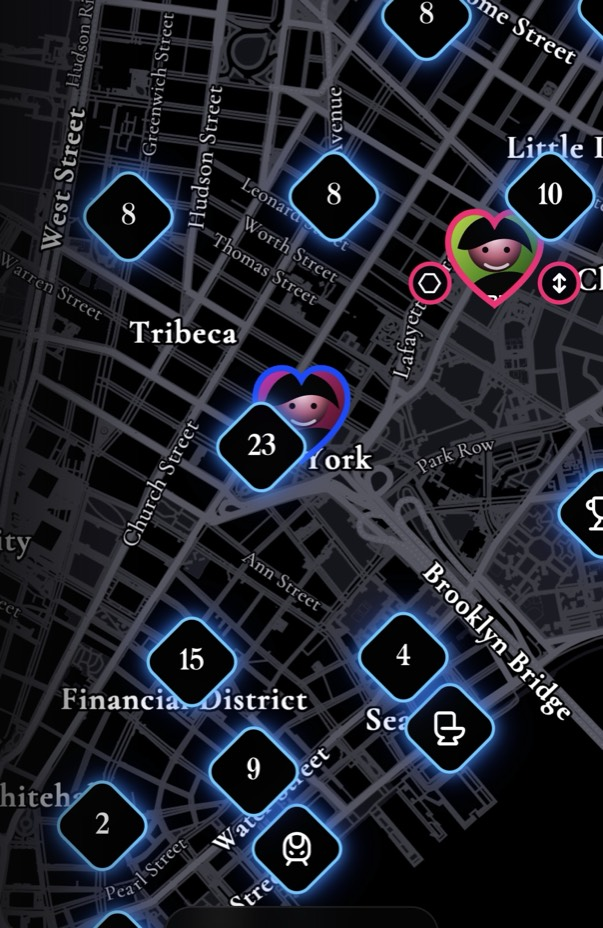
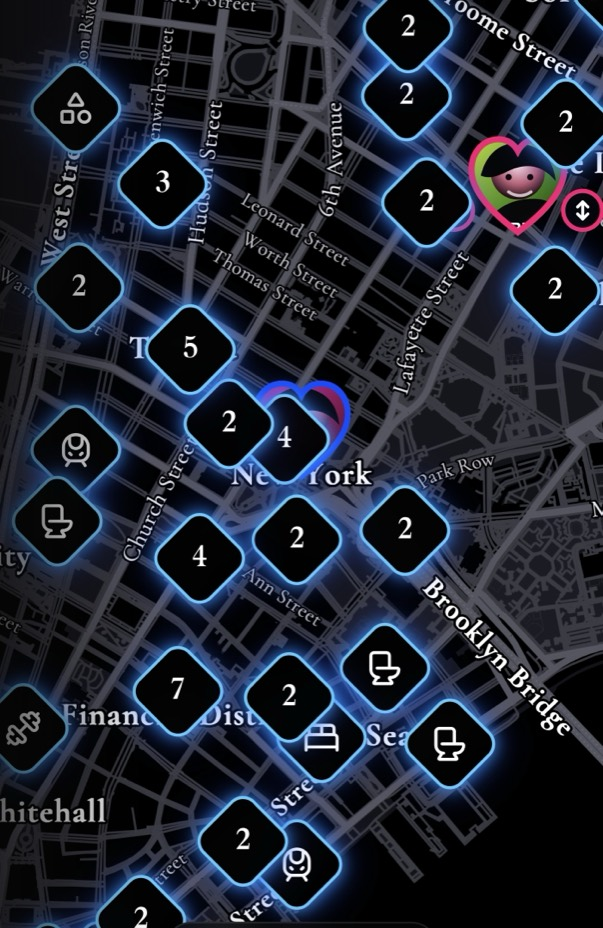
fix: solid hearts in color-blind mode and one font in the accessibility menu
Color-blind mode dashed the stroke on hearts and their side badges. On a
dark map a dashed outline reads as an empty heart rather than a colour
difference, so the strokes are solid again and only their colour carries
the distinction.

The Color vision row rendered in the display serif while every other row
in the menu used the body face, because an accordion header is a heading
element and headings take the serif. A settings row is not a heading to
the eye.

The release email carries fresh captures of the clustered map and the
badge menu from this build.

Claude-Session: https://claude.ai/code/session_01FRN5rnFL84GgDoo835ZMps

diff --git a/src/styles/theme.css b/src/styles/theme.css
@@ -598,13 +598,11 @@ html[data-cruush-color-blind] svg[data-marker-theme='current'][data-pulse-active
 html[data-cruush-color-blind] [data-heart-theme='mutual'] > svg > path:first-of-type,
 html[data-cruush-color-blind] svg[data-marker-theme='mutual'][data-pulse-active='false'][data-traveller-active='false'] > path[data-testid^='marker-ghost-border'] {
   stroke: var(--cruush-cv-secondary) !important;
-  stroke-dasharray: 7 3;
 }
 
 html[data-cruush-color-blind] [data-heart-theme='nearby'] > svg > path:first-of-type,
 html[data-cruush-color-blind] svg[data-marker-theme='nearby'][data-pulse-active='false'][data-traveller-active='false'] > path[data-testid^='marker-ghost-border'] {
   stroke: var(--cruush-cv-primary) !important;
-  stroke-dasharray: 2 3;
 }
 
 html[data-cruush-color-blind] [data-heart-fill-theme='current'] stop:nth-child(1) {
@@ -657,7 +655,6 @@ html[data-cruush-color-blind] [data-badge-tone='mutual'] {
 
 html[data-cruush-color-blind] [data-badge-tone='mutual'] > span > svg {
   stroke: var(--cruush-cv-secondary) !important;
-  stroke-dasharray: 7 3;
 }
 
 html[data-cruush-color-blind] [data-badge-tone='nearby'] {
@@ -666,7 +663,6 @@ html[data-cruush-color-blind] [data-badge-tone='nearby'] {
 
 html[data-cruush-color-blind] [data-badge-tone='nearby'] > span > svg {
   stroke: var(--cruush-cv-primary) !important;
-  stroke-dasharray: 2 3;
 }
 
 html[data-cruush-color-blind] [data-border-tone='mile-high'] > svg > path:first-of-type,

diff --git a/src/app/components/ui/accordion.tsx b/src/app/components/ui/accordion.tsx
@@ -30,12 +30,15 @@ function AccordionTrigger({
   children,
   ...props
 }: React.ComponentProps<typeof AccordionPrimitive.Trigger>) {
+  // The header renders as a heading element, which picks up the display serif.
+  // A row inside a settings list is not a heading to the eye, so it keeps the
+  // body face and sits level with the labels beside it.
   return (
-    <AccordionPrimitive.Header className="flex">
+    <AccordionPrimitive.Header className="flex font-[inherit]">
       <AccordionPrimitive.Trigger
         data-slot="accordion-trigger"
         className={cn(
-          "focus-visible:border-ring focus-visible:ring-ring/50 flex flex-1 items-start justify-between gap-4 rounded-md py-4 text-left text-sm font-medium transition-all outline-none hover:underline focus-visible:ring-[3px] disabled:pointer-events-none disabled:opacity-50 [&[data-state=open]>svg]:rotate-180",
+          "focus-visible:border-ring focus-visible:ring-ring/50 flex flex-1 items-start justify-between gap-4 rounded-md py-4 text-left font-[inherit] text-sm font-medium transition-all outline-none hover:underline focus-visible:ring-[3px] disabled:pointer-events-none disabled:opacity-50 [&[data-state=open]>svg]:rotate-180",
           className,
         )}
         {...props}

diff --git a/FIXLOG.md b/FIXLOG.md
@@ -54,3 +54,5 @@
 - The workbook and OpenStreetMap imports each carried some of the same places, so 97 Spots appeared twice within a hundred and fifty metres of themselves, splitting check-ins and Pink Book posts between two pins. The oldest row keeps the Spot; separate branches of a chain are untouched.
 -  renders all 153 badges grouped as the badge menu groups them, drawn through the same frame and geometry the app uses so the page cannot drift from what ships.
 - The Pride badge list imported a glyph that had been deleted in the same session, so the app failed to boot with a blank root. The Gay badge keeps the double Mars and the import matches it.
+- Color-blind mode drew hearts and their side badges with dashed strokes, which read as hollow outlines rather than a colour difference. The strokes are solid again and only their colour changes.
+- The Color vision row in the accessibility menu rendered in the display serif because an accordion header is a heading element. A settings row now keeps the body face and matches the rows beside it.
